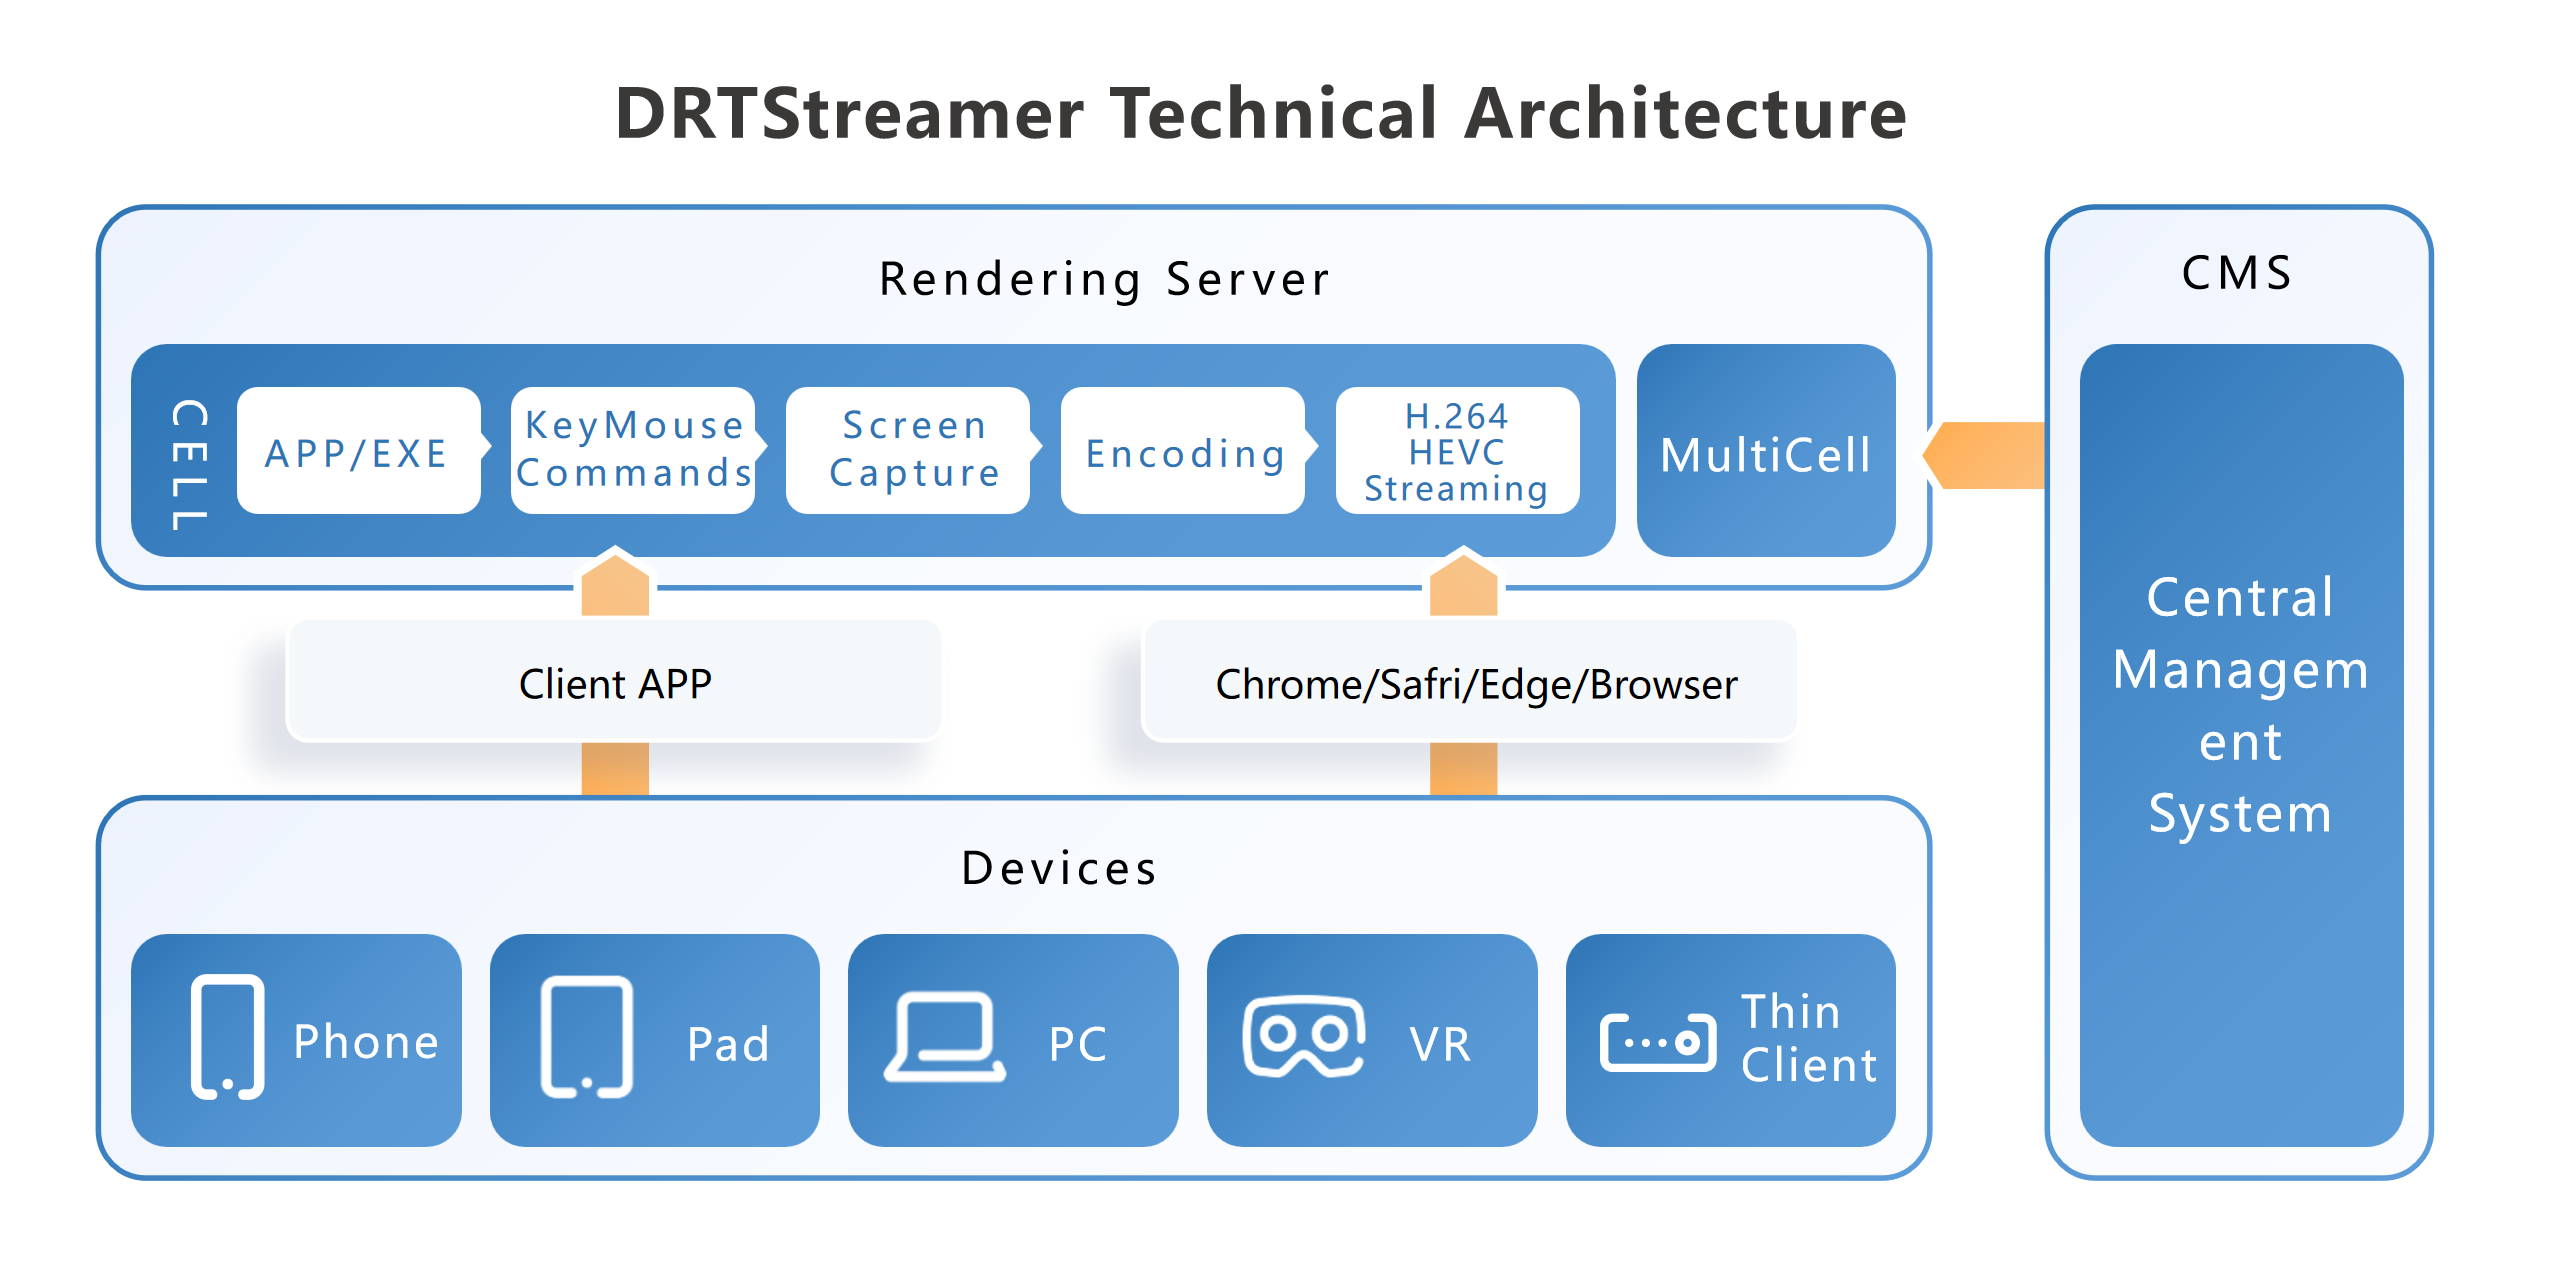
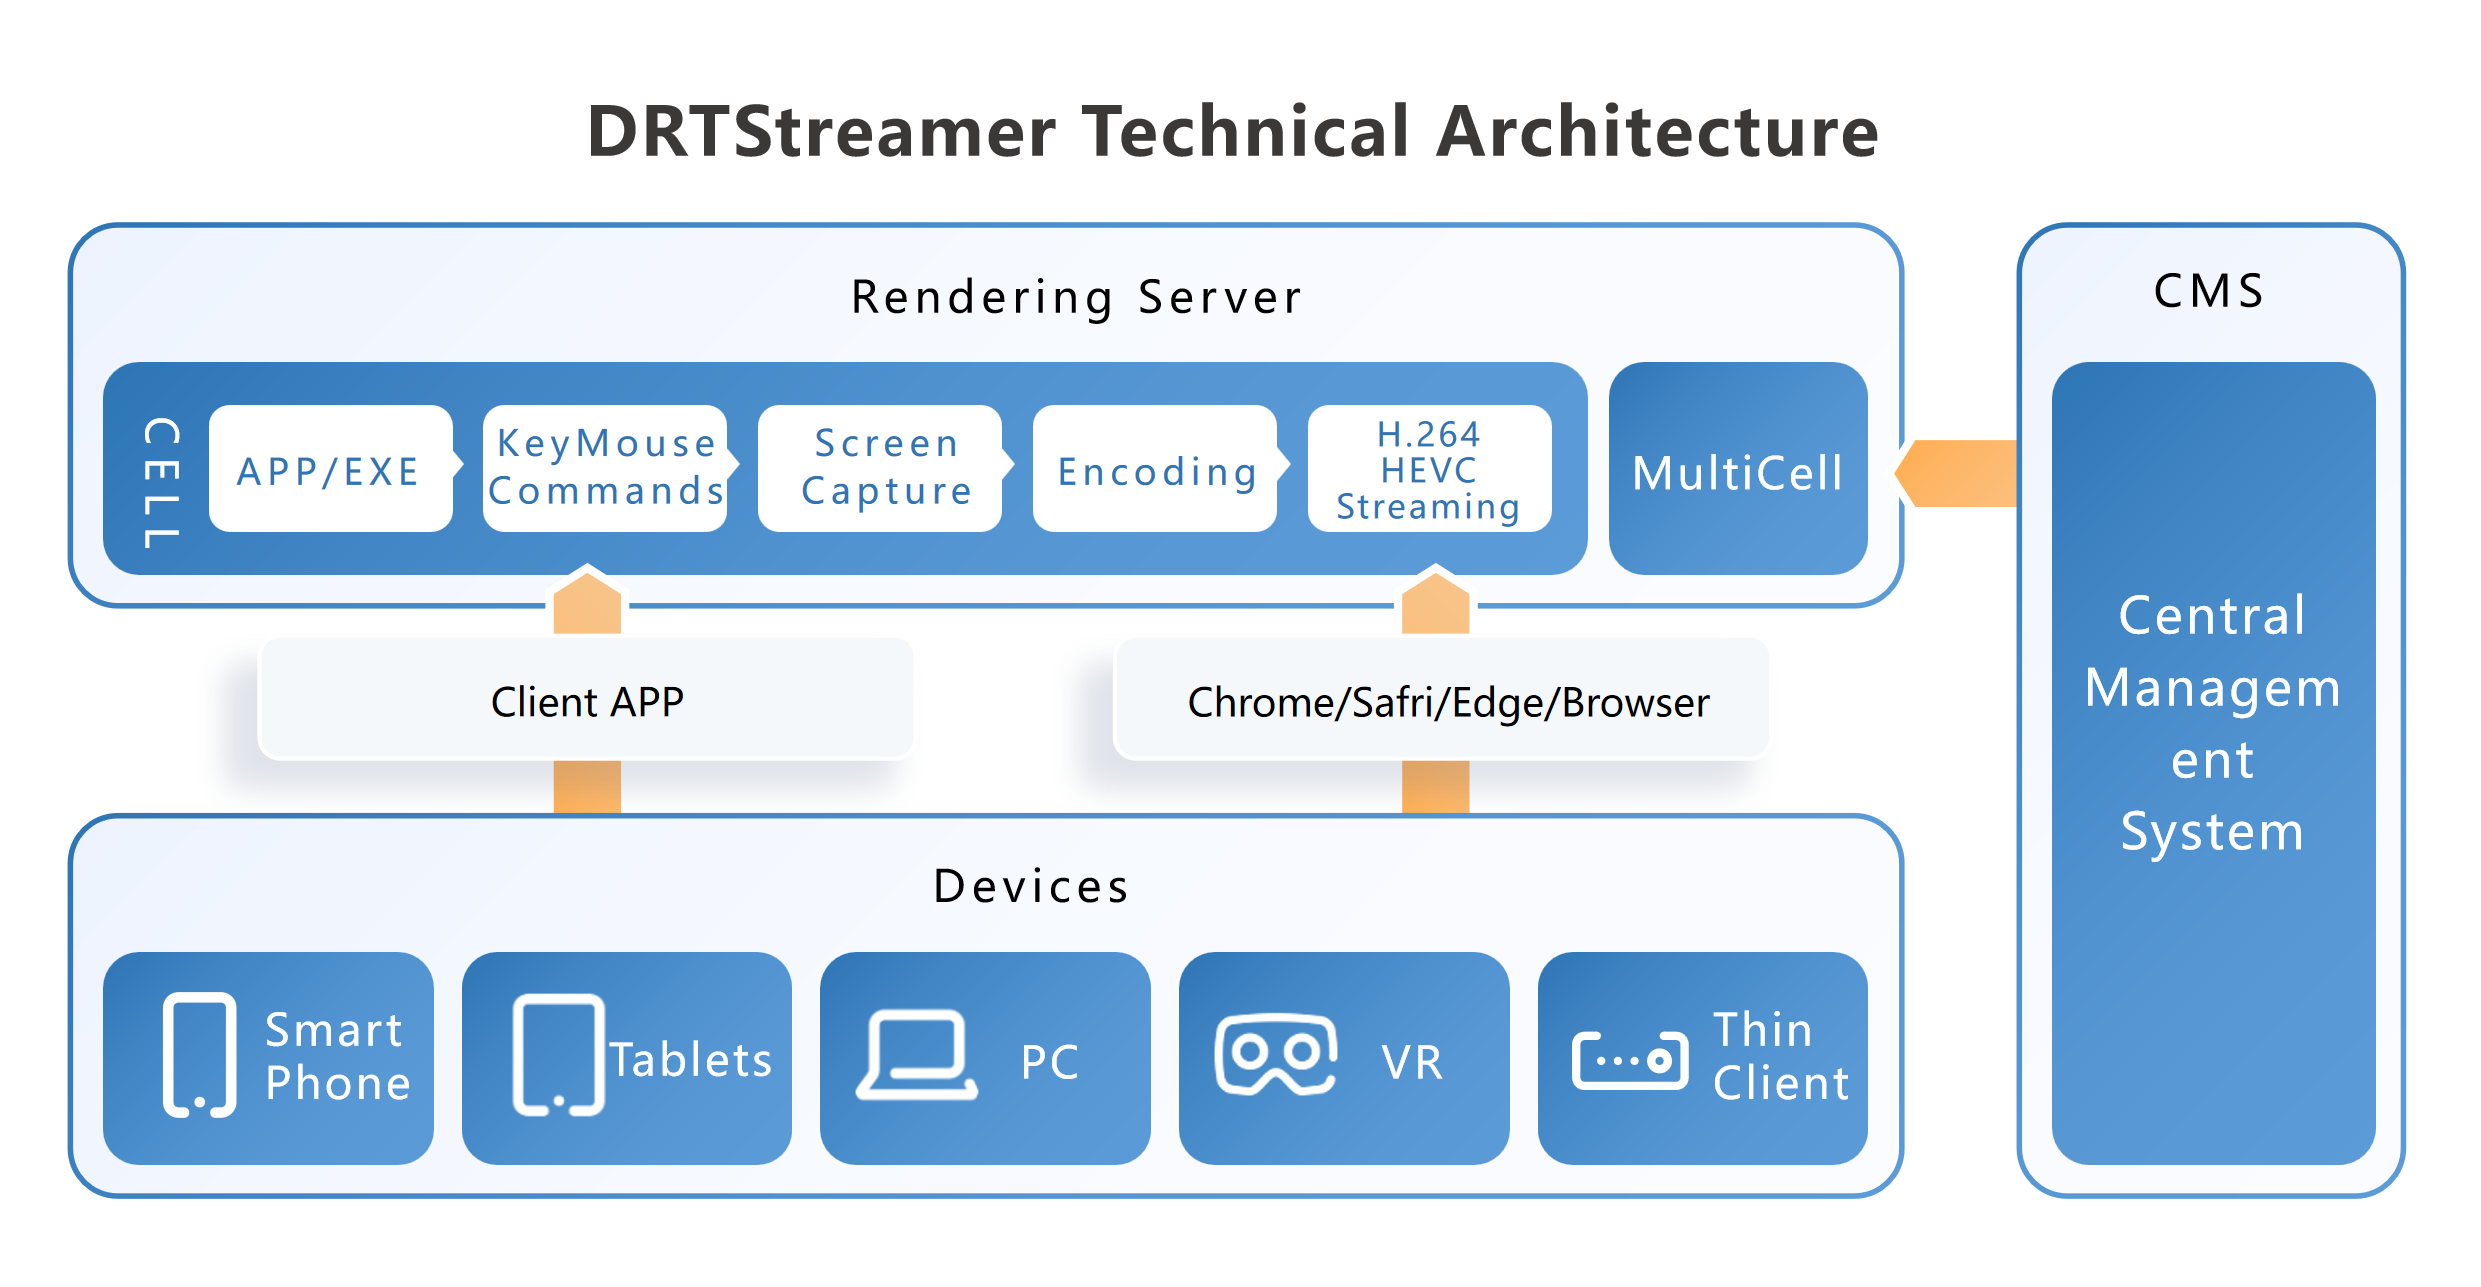
Improve the documentation and system architecture diagram.

diff --git a/README.md b/README.md
@@ -4,47 +4,49 @@
 
 # dolit real-time streamer
 
-Dolit Real-time Streamer can stream any application to a web page, enabling real-time use on lightweight devices.
+Dolit Real-Time Streamer can stream any application/desktop to a web page, enabling instant use on various lightweight devices through browser or a light client, with low-latency remote interaction with applications/desktop.
+
+![scenario](https://raw.githubusercontent.com/dolit/DRTStreamer/master/www/scenario.jpg)
 
 ## Project Scenarios
 
-Widely applicable to the web presentation of 3D content (such as digital twins, smart cities, and three-dimensional visualization), remote desktop, remote control, cloud VR, real-time cloud rendering, cloud desktops, cloud applications, and more, the Dolit Real-time Streamer contributes to low-latency, high-quality, immersive interactive experiences for large software and applications.
+Widely applicable to the web presentation of 3D content such as digital twins, smart cities, and three-dimensional visualization, remote desktop, remote control, cloud VR, real-time cloud rendering, cloud desktops, cloud applications, and more, the Dolit Real-Time Streamer contributes to low-latency, high-quality, immersive interactive experiences for large software and applications.
 
 Additionally, an SDK is provided for integration into other software systems, offering foundational technical support for remote operations and maintenance, enterprise-level remote control, and single-application streaming.
 
-## Project Features
+## Features
 
 - Real-time streaming of an entire computer desktop or any application to a web page, with no plugins required for the web client, enabling instant use.
-- Proprietary ultra-low latency transmission technology, achieving sub-5ms round-trip delays in local networks (from command issuance to screen capture, real-time video stream encoding, network transmission, and decoding display).
-- Supports multi-process containerized isolation on a single server for multiple concurrent streams, ensuring processes do not interfere with each other.
-- Off-screen rendering for 3D applications built with engines like Unreal, Unity, and WebGL, reducing server load by not displaying content screens.
-- Compatible with a wide range of software applications, including UG, AutoCAD, and drawing boards.
+- Proprietary ultra-low latency transmission technology, achieving sub-5ms round-trip delays in local networks (from command issuance to screen capture, to real-time video stream encoding, to network transmission, and to decoding display).
+- CELL Isolation: Supports multi-process containerized isolation on a single server for multiple concurrent streams, ensuring processes do not interfere with each other.
+- Off-screen rendering for 3D applications built with engines like Unreal, Unity, and WebGL, No content screen on the server to reduce the load.
+- Compatible with a wide range of software applications, including UG, AutoCAD,  and drawing boards, among many others.
 - Capable of streaming the entire computer desktop for remote control or remote desktop applications.
-- Supports cluster deployment and load balancing, automatically selecting the optimal route for access.
-- Multi-GPU support on a single machine, automatically balancing the load across graphics cards.
+- Supports cluster deployment and load balancing, It can automatically select the optimal route for access.
+- ·Multi-GPU support on a stand-alone computer, automatically balancing the load across graphics cards.
 - Accessible and controllable from computers, smartphones, tablets, VR/AR devices, set-top boxes, and conference screens, among other light terminal equipment.
-- Compatible with a variety of browsers, including Chrome, Safari, and others in Chrome mode, such as 360 Speed Browser, Sogou Browser, QQ Browser, Huawei Browser, as well as WeChat’s built-in browser and mini-programs.
-- In addition to web clients, Windows, Android, and iOS clients are available for even lower latency experiences.
-- Custom resolution support to adapt the display to different terminal resolutions, with options for original size, fit-to-width height, and full screen.
-- Configurable video encoding, including bitrate and other parameters, with support for different resolutions such as 720P, 1080P, 2K, 4K, 8K. Front-end adaptive bitrate and bandwidth.
-- 8K resolution support and H.265 decoding for devices capable, offering clarity at 8K@60hz on standard Chrome browsers.
-- Supports Windows 10, Windows 11, Windows Server 2016, 2019, 2022, and various Linux systems like Ubuntu, Centos, Debian, and RedHat.
-- Compatible with China’s domestic Trustworthy Computing systems, including UOS, Kylin OS, EulerOS, Zhongke Fangde, Deepin, and others.
+- Compatible with a variety of browsers, including Chrome, Safari, 360 Speed Browser in Chrome mode, Sogou Browser in Chrome mode, QQ Browser, Huawei Browser, as well as WeChat’s built-in browser and mini-programs.
+- In addition to web pages, Windows, Android, and iOS clients are available for lower latency experiences. 
+- Custom resolution support to adapt the display to different terminal resolutions, with options for original size, width, height, and full screen.
+- Configurable video encoding, including bitrate and other parameters, with support for different resolutions such as 720P, 1080P, 2K, 4K, 8K, and front-end adaptive bitrate and bandwidth.
+- Devices supporting H.265 decoding can playback in H.265 mode, offering clarity at 8K@60hz on standard Chrome browsers.
+- Supports Windows 10, Windows 11, Windows Server 2016, 2019, 2022, etc. and various Linux systems like Ubuntu, Centos, Debian, and RedHat.
+- Compatible with China’s domestic systems, including UOS, Kylin OS, EulerOS, Delix, Deepin, and others.
 - Compatibility with some data center GPUs/Tesla, Quadro professional graphics cards, and consumer-level RTX and GeForce series.
-- Multi-user simultaneous viewing support, with primary control and spectator mode, including request controls for observers.
-- Application distribution based on Dolit P2P, supporting pause and resume, centralized deployment, and uniform distribution.
-- Second development interfaces/APIs/SDKs are provided for easy secondary development and business integration.
+- Supports multi-user simultaneous viewing, with primary control and spectator mode, including request controls for observers.
+- Supports application distribution based on Dolit P2P, stop-and-go, centralized deployment, and uniform distribution.
+- Second development interfaces/API/SDKs are provided for easy secondary development and integration.
 - Communication plugins can be integrated during UE/Unity development for bidirectional custom message communication with web clients.
-- A visual web-based management platform is available, including machine management, application management, and stream routing management.
+- A visual web-based management platform is available, including device management, application management, and stream routing management.
 - Real-time monitoring of machine load with configurable load threshold parameters to prevent overload and ensure an optimal experience.
-- Application reports and user usage statistics are provided, including usage duration, number of uses, peak online user counts, yesterday’s visitor count, and current online users, with customizable query times and criteria.
-- Audio and video call mechanisms are supported, enabling multi-person calls during control operations.
+- Application reports and user usage statistics are provided, including usage duration, number of uses, peak online presence, yesterday’s visitors, and current online users, with customizable query times and criteria.
+- Support audio and video call mechanisms, enabling multi-person calls during operations.
 - Sharing of operator screens and cameras to the streamed content is supported, facilitating control and communication.
-- Bird’s-eye view mode: For large-screen applications, dynamic partial screen capture is supported based on front-end display needs, with a slider to select specific content areas, reducing bandwidth consumption and enhancing image quality.
+- Bird’s-eye view mode: For large-screen applications, dynamic partial screen capture is supported based on front-end display needs, with a slider to select content areas, reducing bandwidth consumption and enhancing image quality.
 
-## Overview of System Architecture
+##  Architecture
 
-![scenario](https://raw.githubusercontent.com/dolit/DRTStreamer/master/www/scenario.jpg)
+![architecture](https://raw.githubusercontent.com/dolit/DRTStreamer/master/www/architecture.png)
 
 
 
@@ -52,7 +54,7 @@ Additionally, an SDK is provided for integration into other software systems, of
 
 Email：market@dolit.cn 
 
-WebSite：https://www.dolit.cloud 
+WebSite：http://www.dolit.cloud 
 
-[Please visit this link for more...](https://dolit.cloud/)
+[Please visit this link for more...](http://www.dolit.cloud/)
 

diff --git a/README_cn.md b/README_cn.md
@@ -4,7 +4,9 @@
 
 ## 点量云流
 
-点量云流可以将任意软件流化成网页，在轻量化设备上即点即用。
+点量云流可以将任意软件/桌面流化成网页，在各种轻量化设备上即点即用，通过网页或轻客户端，低延迟远程操作应用/桌面。
+
+![scenario](https://raw.githubusercontent.com/dolit/DRTStreamer/master/www/scenario_cn.jpg)
 
 ## 适用场景
 
@@ -16,7 +18,7 @@
 
 - 实时流化整个电脑桌面/任一程序到网页，网页端无需安装任何插件，即点即用
 - 自研超低延迟传输，客户端模式在局域网中完整链路延迟最低可以5ms（指令发生->画面抓屏->实时视频流编码->网络传输->解码显示)
-- 单服务器支持多进程容器化隔离流化，多路并发：多个进程多路输出，互不干扰
+- 自研Cell隔离技术：单服务器支持多进程容器化隔离流化，多路并发：多个进程多路输出，互不干扰
 - 对Unreal、Unity、WebGL等引擎的3D应用，支持离屏渲染，服务器不出现内容画面，减少服务器负载
 - 支持任意软件程序，如UG、AutoCAD、画图板等各种应用
 - 支持对整个电脑桌面进行流化（远程控制/远程桌面）
@@ -44,12 +46,12 @@
 
 ## 系统结构
 
-![scenario](https://raw.githubusercontent.com/dolit/DRTStreamer/master/www/scenario_cn.jpg)
+![architecture](https://raw.githubusercontent.com/dolit/DRTStreamer/master/www/architecture_cn.png)
 
 ## 联系方式
 
 邮箱：market@dolit.cn 
 
-官网：https://www.dolit.cloud （有在线试用和体验）
+官网：http://www.dolit.cloud （可在线试用和体验）
 
-[请点击此处了解更多...](https://www.dolit.cloud/)
+[请点击此处了解更多...](http://www.dolit.cloud/)
